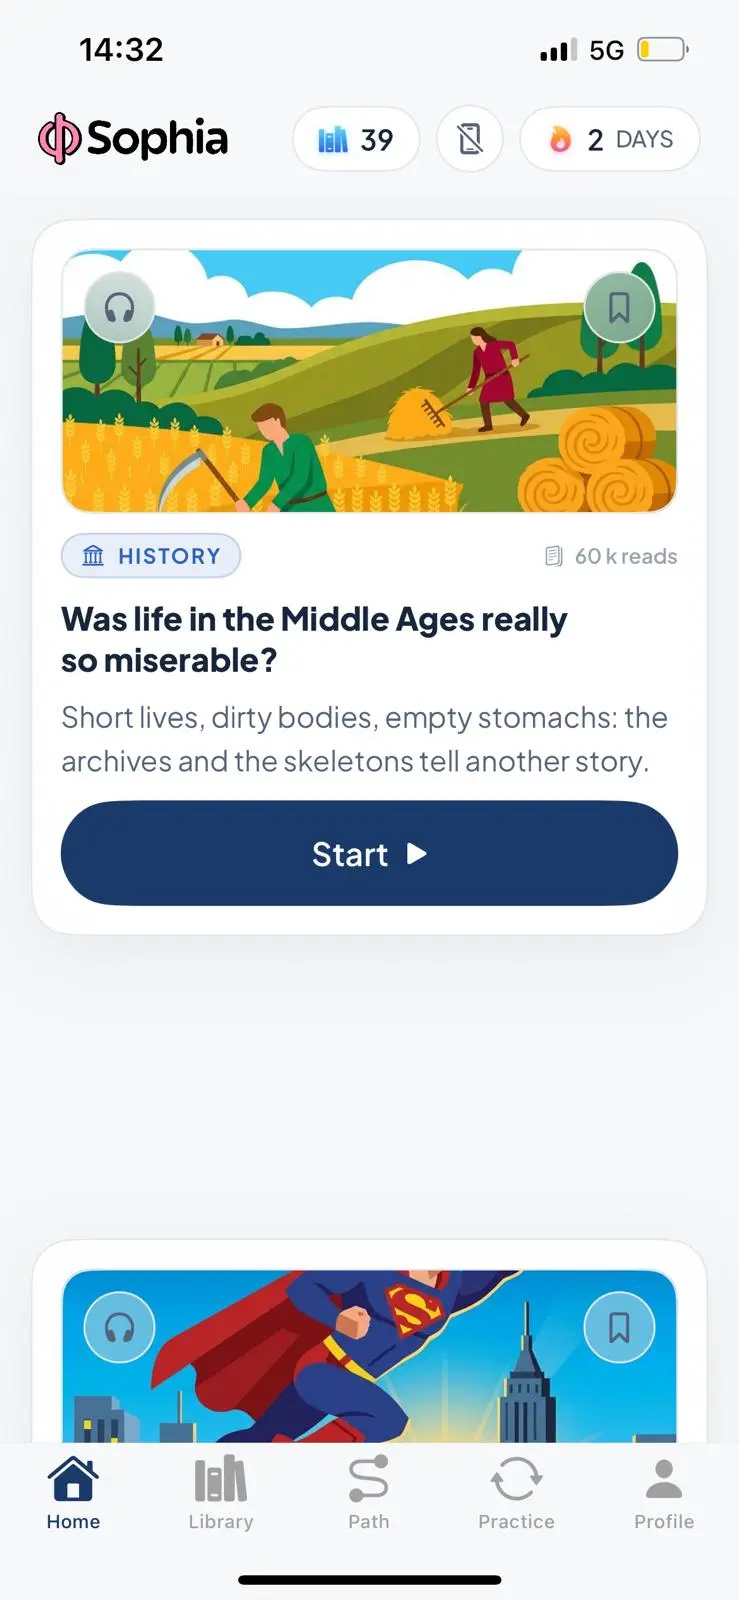
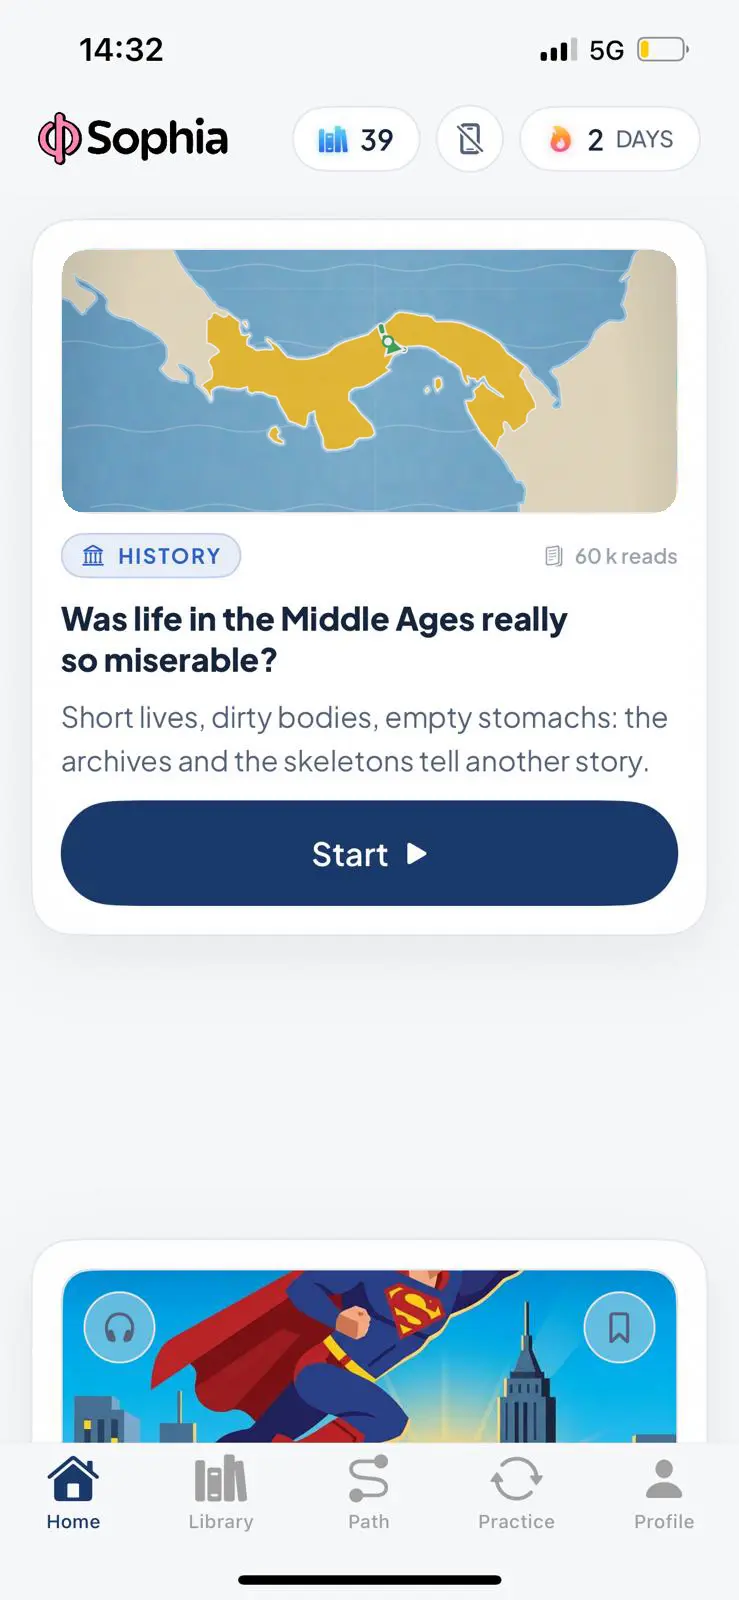
Motion geo-modele : capture du cours Panama et textes de l'accueil réécrits en anglais
appli.recouvrir réécrit catégorie, titre et description de la capture même en
anglais (capture composée ou d'un autre cours). Capture de l'exemple : la carte
du cours avec la carte du Panama.

Claude-Session: https://claude.ai/code/session_017c8FRX5RyaY8AeEbibjmP3

Changed region(s): [[0.0622, 0.1562, 0.9337, 0.3438]]

diff --git a/videos/geo-modele/src/scenes/Outro.tsx b/videos/geo-modele/src/scenes/Outro.tsx
@@ -660,7 +660,7 @@ export const Outro: React.FC = () => {
               {f < PUSH.lesson + 12 && (
                 <AbsoluteFill style={{translate: `${pushX(f, -100, PUSH.lesson)}px 0px`}}>
                   <Img src={SHOT} style={{width: 390, height: 844}} />
-                  {code !== 'en' && <AccueilTraduit A={A} />}
+                  {(code !== 'en' || A.recouvrir) && <AccueilTraduit A={A} />}
                   <div style={{position: 'absolute', left: 32, top: 425, width: 325, height: 54, borderRadius: 27, background: `rgba(0,0,0,${startDark})`}} />
                 </AbsoluteFill>
               )}

diff --git a/videos/geo-modele/src/langues/types.ts b/videos/geo-modele/src/langues/types.ts
@@ -25,6 +25,8 @@ export type Segment = {t?: string; m?: string}; // texte normal, ou passage surl
 export type Question = {q: string; options: string[]; bonne: number; fait: string};
 
 export type TextesAppli = {
+  /** Réécrire les textes de la capture même en anglais (capture composée, ou d'un autre cours) */
+  recouvrir?: boolean;
   categorie: string;
   lectures: string;
   jours: string;
